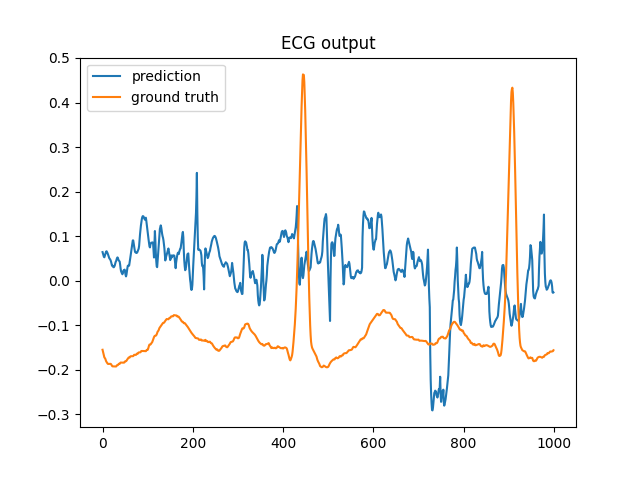
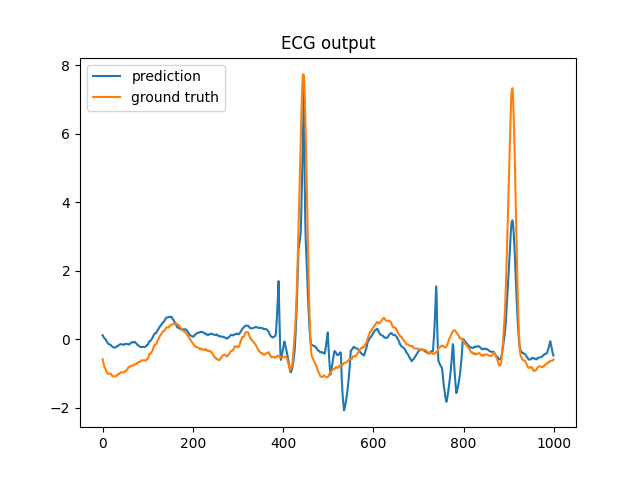
Model works okay but averages 2 inputs - I fixed the bug where I had the inputs and outputs in wrong order such that the model was trained on ecg and tested on rr - shorted input - converted to to zscore normalization

diff --git a/train_network.py b/train_network.py
@@ -5,49 +5,46 @@ import matplotlib.pyplot as plt
 import torch.optim as optim
 import torch.nn as nn
 from torch.utils.data import TensorDataset, DataLoader
+signal_length = 2500
+batch_size = 128*4
 
 
 ecg_data =np.loadtxt('processed_data/ecg.csv', delimiter=',',dtype=np.float32)
-ppg_data = np.loadtxt('processed_data/ppg.csv', delimiter=',',dtype=np.float32)
-qt_data =np.loadtxt('processed_data/qt.csv', delimiter=',',dtype=np.float32)
 rr_data = np.loadtxt('processed_data/rr.csv', delimiter=',',dtype=np.float32)
 
-ecg_data_train = torch.from_numpy(ecg_data[:,3000:])
-ecg_data_test = torch.from_numpy(ecg_data[:,:3000])
-ppg_data_train = torch.from_numpy(ppg_data[:,3000:])
-ppg_data_test = torch.from_numpy(ppg_data[:,:3000])
-qt_data_train = torch.from_numpy(qt_data[:,3000:])
-qt_data_test = torch.from_numpy(qt_data[:,:3000])
-rr_data_train = torch.from_numpy(rr_data[:,3000:])
-rr_data_test = torch.from_numpy(rr_data[:,:3000])
+ecg_data_train = torch.from_numpy(ecg_data[:,signal_length//2:])
+ecg_data_test = torch.from_numpy(ecg_data[:,:signal_length//2])
+rr_data_train = torch.from_numpy(rr_data[:,signal_length//2:])
+rr_data_test = torch.from_numpy(rr_data[:,:signal_length//2])
 
-ecg_dl = DataLoader(TensorDataset(ecg_data_train, ecg_data_test), shuffle=False, batch_size=16,drop_last=True)
-ppg_dl = DataLoader(TensorDataset(ppg_data_train,ppg_data_test), shuffle=False, batch_size=16,drop_last=True)
-rr_dl = DataLoader(TensorDataset(rr_data_train, rr_data_test), shuffle=False, batch_size=16,drop_last=True)
-qt_dl = DataLoader(TensorDataset(qt_data_train,qt_data_test),shuffle=False,  batch_size=16,drop_last=True)
+print(ecg_data_train.shape[0], batch_size)
+print(rr_data_train.shape[0], batch_size)
 
-model = GNN()
+ecg_dl = DataLoader(TensorDataset(ecg_data_train, ecg_data_test), shuffle=False, batch_size=batch_size,drop_last=True)
+rr_dl = DataLoader(TensorDataset(rr_data_train, rr_data_test), shuffle=False, batch_size=batch_size,drop_last=True)
+
+model = GNN(signal_length=signal_length//2)
 criterion = nn.MSELoss()
 optimizer = optim.Adam(model.parameters(), lr=1e-3)
 
 device = "cuda"
 model = model.to(device)
-"""
+
 # Training loop
-for epoch in range(1000):
+epochs = 500
+for epoch in range(epochs):
     model.train()
     running_loss = 0.0
 
-    for (x1, x2), (y1, y2) in zip(ecg_dl,rr_dl):
-        x1, x2 = x1.to(device), x2.to(device)
-        y1, y2 = y1.to(device), y2.to(device)
+    for (ecg_input, ecg_output), (rr_input, rr_output) in zip(ecg_dl,rr_dl):
+        ecg_input, ecg_output, rr_input, rr_output = ecg_input.to(device), ecg_output.to(device), rr_input.to(device), rr_output.to(device)
 
         # Forward pass
-        y1_pred, y2_pred = model(x1, x2)
+        ecg_pred, rr_pred = model(ecg_input, rr_input)
 
         # Compute individual losses and combine
-        loss1 = criterion(y1_pred, y1)
-        loss2 = criterion(y2_pred, y2)
+        loss1 = criterion(ecg_pred, ecg_output)
+        loss2 = criterion(rr_pred, rr_output)
         loss = loss1 + loss2
 
         optimizer.zero_grad()
@@ -56,11 +53,11 @@ for epoch in range(1000):
 
         running_loss += loss.item()
 
-    print(f"Epoch {epoch+1}/{1000}, Loss: {running_loss / len(ecg_dl):.4f}")
+    print(f"Epoch {epoch+1}/{epochs}, Loss: {running_loss / len(ecg_dl):.4f}")
 
 torch.save(model.state_dict(), 'model.pth')
-"""
-model = GNN().cuda()
+
+model = GNN(signal_length=signal_length//2).cuda()
 model.load_state_dict(torch.load('model.pth', weights_only=True))
 
 ecg_inputs, ecg_outputs = next(iter(ecg_dl))

diff --git a/neural_network.py b/neural_network.py
@@ -4,12 +4,16 @@ import torch.nn as nn
 
 # Sub-network A
 class heartrate_net(nn.Module):
-    def __init__(self):
-        super(heartrate_net, self).__init__()
+    def __init__(self, input_dim=3000):
+        super().__init__()
         self.net = nn.Sequential(
-            nn.Linear(3000, 32),
-            nn.ReLU(),
-            nn.Linear(32, 16)
+            nn.Linear(input_dim, 2048),
+            nn.GELU(),
+            nn.Linear(2048, 1024),
+            nn.GELU(),
+            nn.Linear(1024, 512),
+            nn.GELU(),
+            nn.Linear(512, 256),
         )
 
     def forward(self, x):
@@ -17,46 +21,58 @@ class heartrate_net(nn.Module):
 
 # Sub-network B
 class ecg_net(nn.Module):
-    def __init__(self):
-        super(ecg_net, self).__init__()
+    def __init__(self, input_dim=3000):
+        super().__init__()
         self.net = nn.Sequential(
-            nn.Linear(3000, 32),
-            nn.ReLU(),
-            nn.Linear(32, 32),
-            nn.ReLU(),
-            nn.Linear(32, 32),
-            nn.ReLU(),
-            nn.Linear(32, 16)
+            nn.Linear(input_dim, 2048),
+            nn.GELU(),
+            nn.Linear(2048, 1024),
+            nn.GELU(),
+            nn.Linear(1024, 512),
+            nn.GELU(),
+            nn.Linear(512, 256),
         )
 
     def forward(self, x):
         return self.net(x)
 
-# Fusion Network
 class combo_net(nn.Module):
     def __init__(self, output_len=3000):
-        super(combo_net, self).__init__()
-        self.shared = nn.Sequential(
-            nn.Linear(32, 16),
-            nn.ReLU()
+        super().__init__()
+        self.hr_proj = nn.Sequential(
+            nn.Linear(256, 256),
+            nn.GELU()
         )
-        self.out1 = nn.Linear(16, output_len)
-        self.out2 = nn.Linear(16, output_len)
+        self.ecg_proj = nn.Sequential(
+            nn.Linear(256, 256),
+            nn.GELU()
+        )
+
+        self.fusion = nn.Sequential(
+            nn.Linear(256 * 2, 512),
+            nn.GELU(),
+            nn.Linear(512, 1024),
+            nn.GELU(),
+            nn.Linear(1024, 2048),
+            nn.GELU(),
+            nn.Linear(2048, output_len)
+        )
 
     def forward(self, a_out, b_out):
-        combined = torch.cat((a_out, b_out), dim=1)
-        fused = self.shared(combined)
-        return self.out1(fused), self.out2(fused)
+        a = self.hr_proj(a_out)
+        b = self.ecg_proj(b_out)
+        fused = torch.cat([a, b], dim=1)  # [B, 32]
+        output = self.fusion(fused)       # [B, 3000]
+        return output, output  # return both outputs for now
 
-# Combine everything into a model wrapper
 class GNN(nn.Module):
-    def __init__(self):
-        super(GNN, self).__init__()
-        self.a = heartrate_net()
-        self.b = ecg_net()
-        self.fusion = combo_net()
+    def __init__(self, signal_length):
+        super().__init__()
+        self.a = heartrate_net(input_dim=signal_length)
+        self.b = ecg_net(input_dim=signal_length)
+        self.fusion = combo_net(output_len=signal_length)
 
     def forward(self, x1, x2):
-        out_a = self.a(x1)
-        out_b = self.b(x2)
-        return self.fusion(out_a, out_b)  # returns y1_pred, y2_pred
+        out_a = self.a(x1)  # [B, 16]
+        out_b = self.b(x2)  # [B, 16]
+        return self.fusion(out_a, out_b)  # [B, 3000], [B, 3000]

diff --git a/process_data.py b/process_data.py
@@ -17,7 +17,12 @@ import itertools
 
 frac_sec = 10 #the x values are 10th of a second
 ecg_hz = 500
-snip_len = 6000
+snip_len = 2500
+
+def zscore_normalize(x):
+    mean = np.mean(x, keepdims=True)
+    std = np.std(x, keepdims=True)
+    return (x - mean) / (std + 1e-8)
 
 def process_rr(rr_distance_ms):
     """
@@ -25,7 +30,7 @@ def process_rr(rr_distance_ms):
     of
     """
     bpm = 60000/rr_distance_ms
-    scaled_heartrate = bpm/75 -1
+    scaled_heartrate = zscore_normalize(bpm)
     num_samples = len(scaled_heartrate)//snip_len
     scaled_heartrate_trimmed = scaled_heartrate[:num_samples*snip_len]
     heartrate_snips = scaled_heartrate_trimmed.reshape(num_samples, snip_len)
@@ -65,13 +70,13 @@ for i in range(2,5): #no ppg data for patient 1
     interpolated_ppg_for_patient = np.interp(np.linspace(0,1,len(ecg_file)), np.linspace(0,1,len(ppg_for_patient)), ppg_for_patient)
     all_ppg_data = np.append(all_ppg_data,interpolated_ppg_for_patient)
 
-all_ecg_data = 2 * (all_ecg_data - all_ecg_data.min()) / (all_ecg_data.max() - all_ecg_data.min() + 1e-8) - 1
+all_ecg_data = zscore_normalize(all_ecg_data)
 num_ecg_samples = len(all_ecg_data)//snip_len
 ecg_trimmed = all_ecg_data[:num_ecg_samples*snip_len]
 ecg_snips = ecg_trimmed.reshape(num_ecg_samples, snip_len)
 np.savetxt("processed_data/ecg.csv", ecg_snips, delimiter = ",")
 
-all_ppg_data = 2 * (all_ppg_data - all_ppg_data.min()) / (all_ppg_data.max() - all_ppg_data.min() + 1e-8) - 1
+all_ppg_data = zscore_normalize(all_ppg_data)
 num_ppg_samples = len(all_ppg_data)//snip_len
 ppg_trimmed = all_ppg_data[:num_ppg_samples*snip_len]
 ppg_snips = ppg_trimmed.reshape(num_ppg_samples, snip_len)
